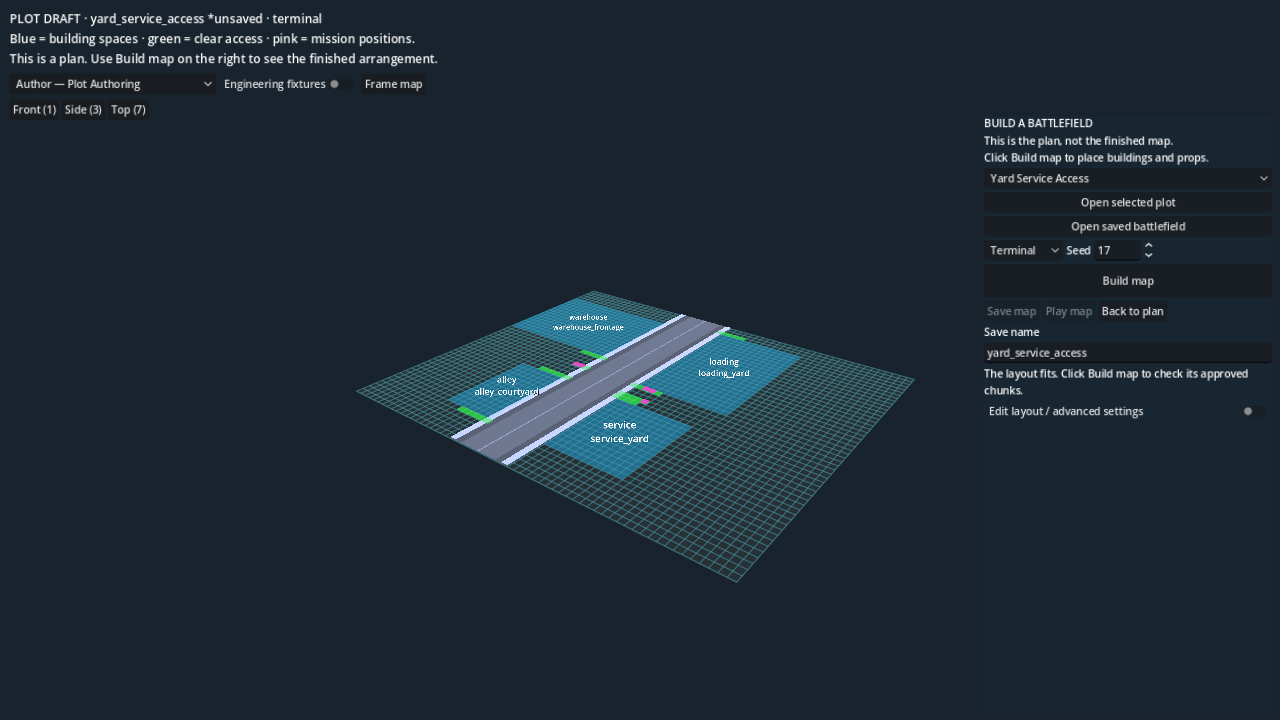
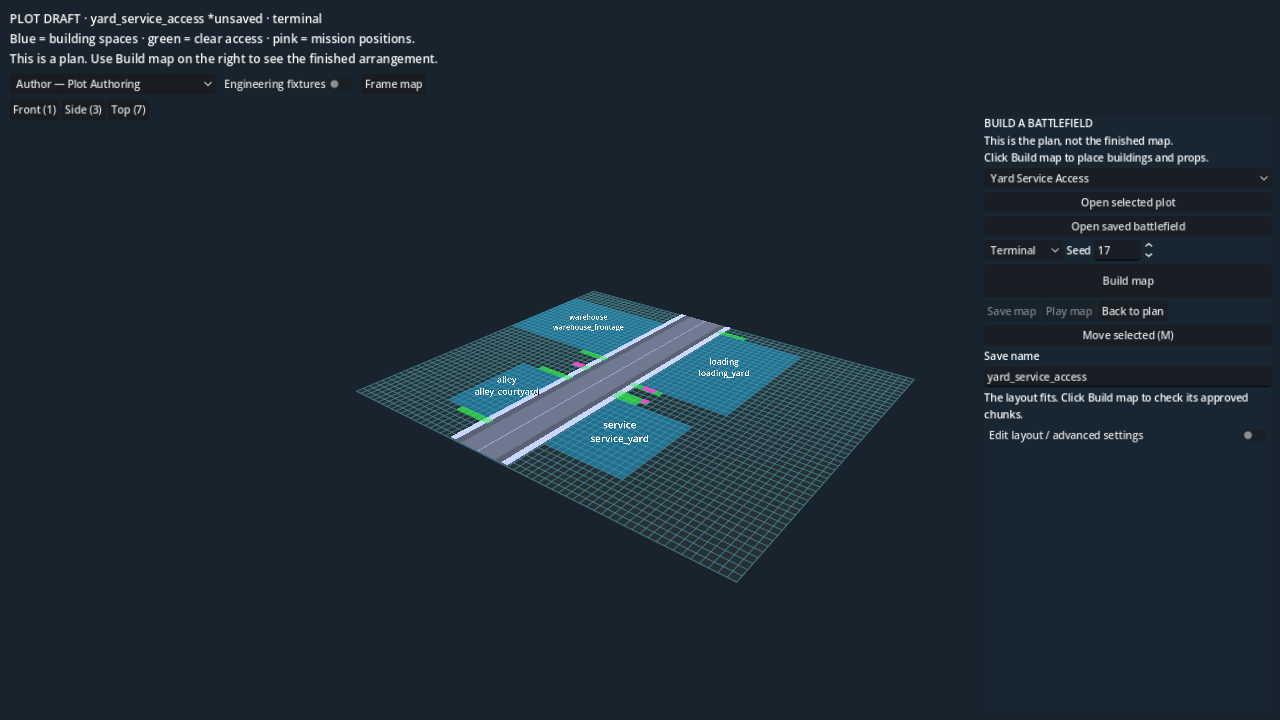
Add snapped mouse placement to plot authoring

Changed region(s): [[0.75, 0.4583, 1.0, 0.6111]]

diff --git a/docs/generation/generation-redesign-progress.md b/docs/generation/generation-redesign-progress.md
@@ -190,3 +190,8 @@ See [T11 review and playtest checklist](plot-gameplay-review.md). Common documen
 ## Plot editor usability follow-up — 2026-10-30
 
 Owner playtest found the planning view confusing and the build controls buried below slot forms. Main screen now leads with open layout → Build map → Save map / Play map, explains plan versus built output, and keeps advanced layout controls collapsed. Build fills only missing street pins from the existing approved registry; it never upgrades existing pins or approves content. Blocked builds identify the missing chunk and next authoring action without mutating the source. Save/play are disabled until a valid composition exists. Detailed validation remains in advanced settings. Rendered workflow checks at 1280×720 cover visible primary controls, blocked-build diagnostics/source preservation and existing editing/history/persistence; 25 checks pass. Evidence: `artifacts/plot-ui-through-street.png`, `artifacts/plot-ui-service-access.png`.
+
+
+## Plot mouse placement — 2026-10-30
+
+Added Move selected (M) in the main plot controls: a snapped, tinted mouse-following preview for streets, slots, access regions and mission regions; click/Enter confirms, Esc cancels. Out-of-map previews are red and cannot commit. Preview motion does not mutate source or run composition/validation on each frame. Confirmation changes only position/cells, preserves stable IDs/revisions/reference metadata and cell shape, and creates one undo entry. Shared source validation reports connection/access issues after draft placement; moving a piece does not automatically move linked roads or reservations. Build/save-draft request confirmation/cancellation first. No new placement identity system. Rendered workflow suite: 34 passing checks including real mouse-ray input, bounds rejection, cancellation, reference preservation and undo/redo. Evidence: `artifacts/plot-mouse-preview.png`.
